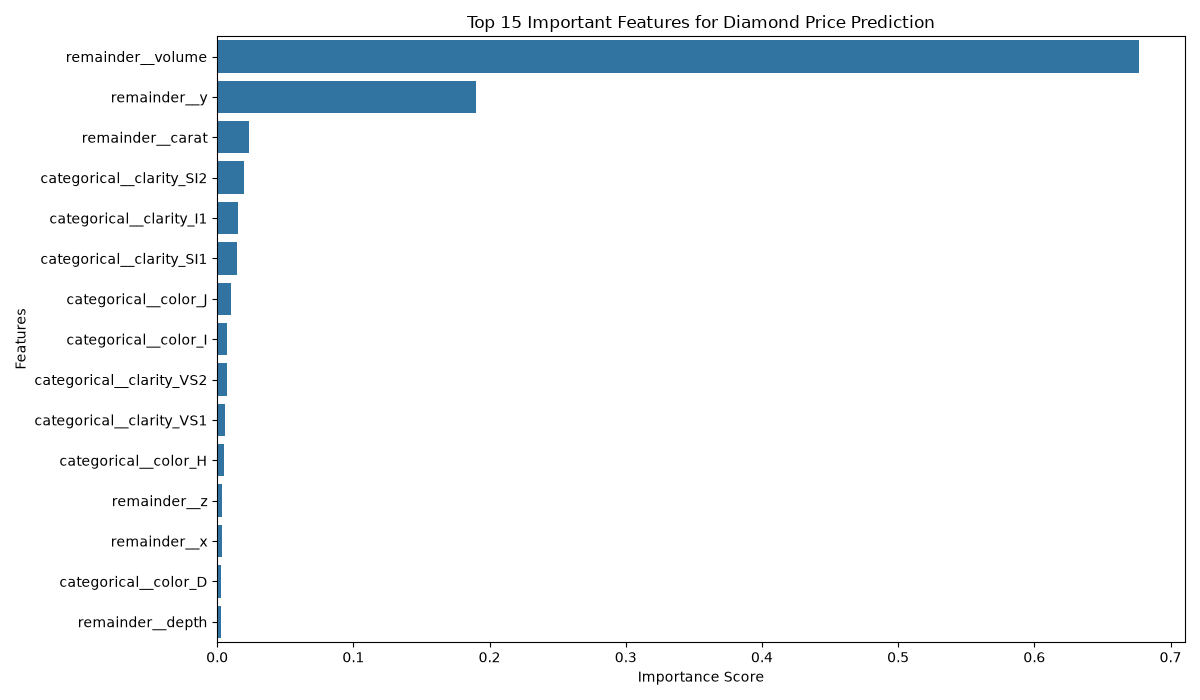
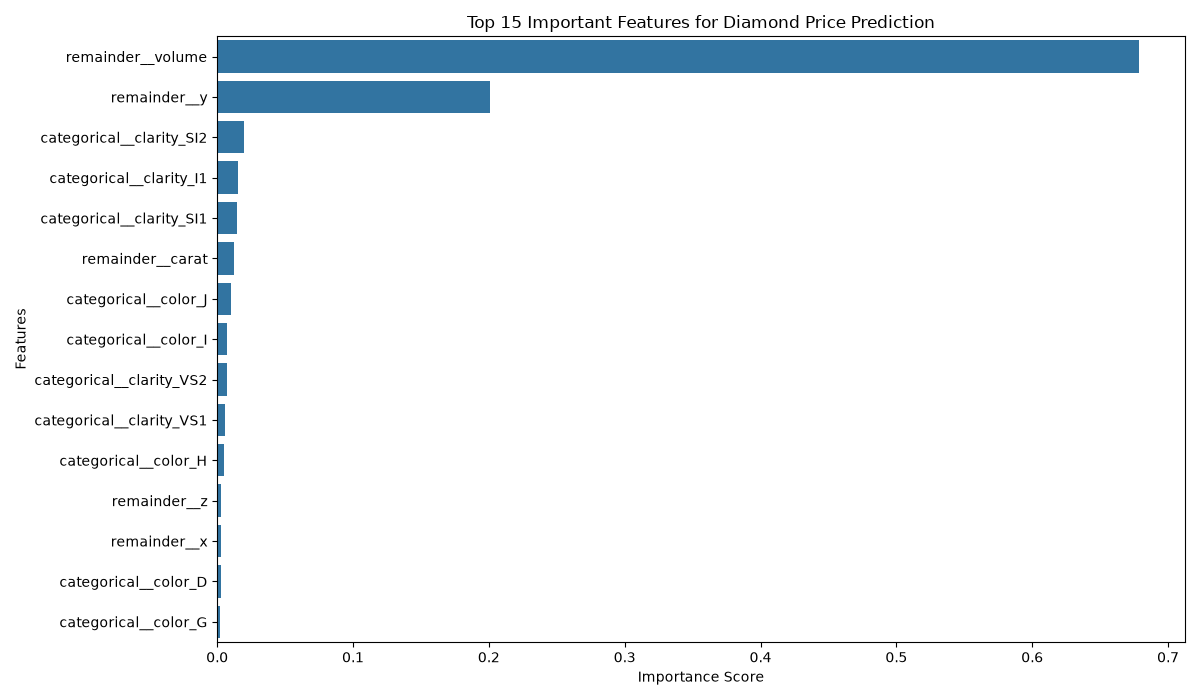
Optimize Random Forest model for deployment

diff --git a/model.py b/model.py
@@ -198,7 +198,9 @@ print("RANDOM FOREST MODEL TRAINING")
 
 # Create model
 random_forest_model = RandomForestRegressor(
-    n_estimators=100,
+    n_estimators=30,
+    max_depth=20,
+    min_samples_leaf=2,
     random_state=42,
     n_jobs=-1
 )
